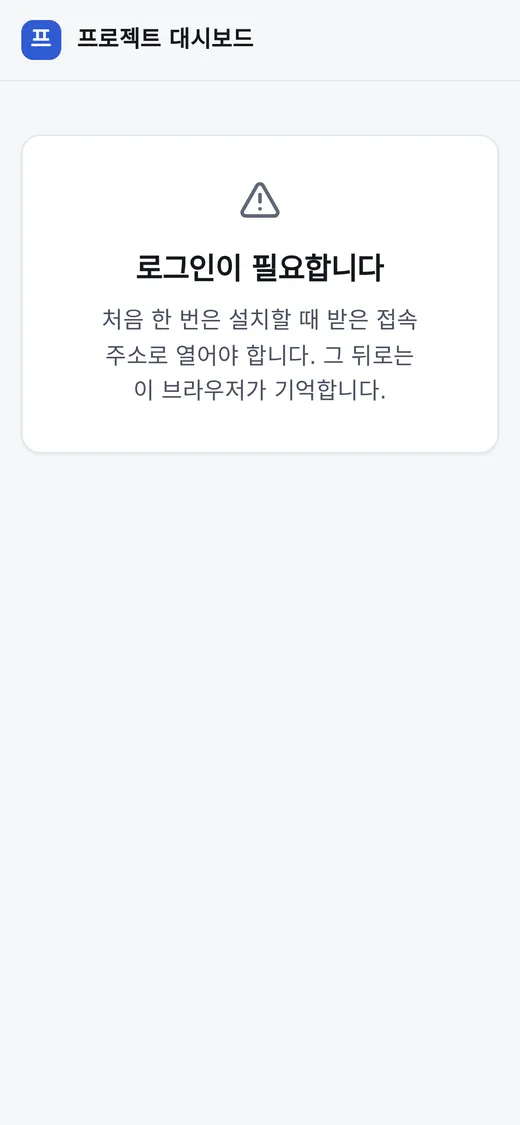
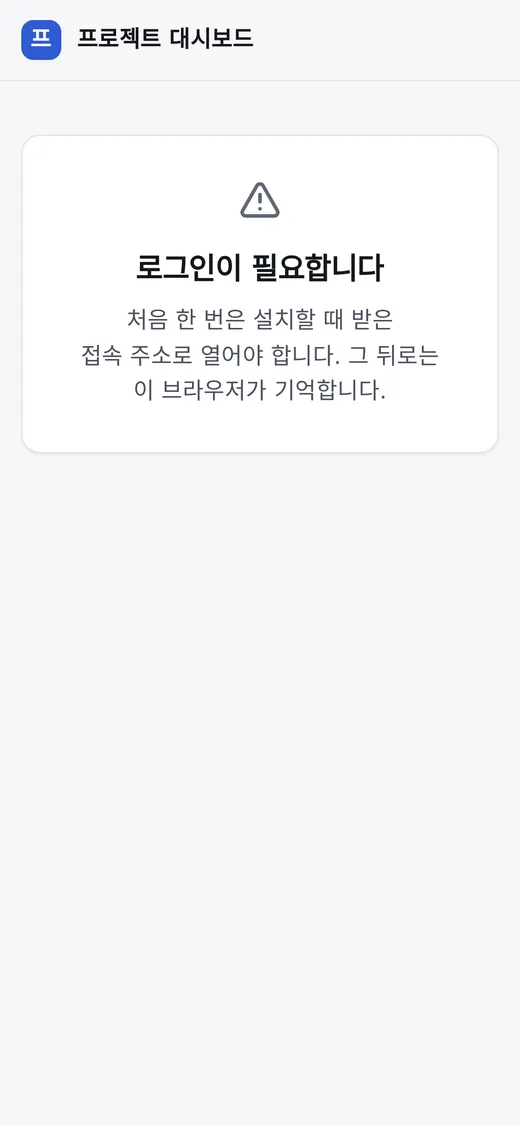
fix(project-board): visual QA round 4 - quoted button names keep their particle, approval source titles, the access address and the demo command wrap cleanly on phones

Changed region(s): [[0.1538, 0.2489, 0.8308, 0.3422]]

diff --git a/automation/project_board/dashboard.py b/automation/project_board/dashboard.py
@@ -208,7 +208,7 @@ _ARCHIVE_DIALOG: Final = (
     '<dialog id="archive-dialog" aria-labelledby="archive-title"><form method="dialog">'
     '<h2 id="archive-title" tabindex="-1" autofocus>이 프로젝트를 보관할까요?</h2>'
     '<p>「<b data-name></b>」 프로젝트는 요약, 할\u00a0일, 일정, 근거에서 빠지고 보관함에서만 보입니다. '
-    "할\u00a0일과 근거는 지워지지 않고 프로젝트 화면의 「보관 해제」로 언제든 되돌립니다.</p>"
+    "할\u00a0일과 근거는 지워지지 않고 프로젝트 화면의 <span class=\"q\">「보관 해제」로</span> 언제든 되돌립니다.</p>"
     '<p class="dialog-error" role="alert"></p>'
     '<div class="dialog-actions"><button class="btn" value="cancel">취소</button>'
     '<button class="btn primary" value="ok" data-confirm>보관하기</button></div></form></dialog>'
@@ -401,7 +401,7 @@ def _summary(snapshot: BoardSnapshot, today: date) -> str:
             link = f' · <a href="{escape(p.thread_url, quote=True)}">승인 스레드 열기</a>' if p.thread_url else ""
             items.append(
                 f"<li><b>{escape(p.project)}</b> {_grade_badge(p.grade)} · 할\u00a0일\u00a0{p.todo_count}건 · "
-                f"근거 「{escape(p.source_subject)}」{link}</li>"
+                f"근거 {_quoted(p.source_subject)}{link}</li>"
             )
         pending = (
             f'<div class="callout" id="pending">{icon("inbox")}<div><b>승인을 기다리는 제안 {len(items)}건</b>'
@@ -676,7 +676,7 @@ def _archived_line(view: ProjectView, mode: Mode) -> str:
 def _archive(shelf: tuple[ProjectView, ...], mode: Mode, today: date, fresh: dict[str, int] | None = None) -> str:
     """보관함: archived projects only. Their todos and evidence are kept and open from the card."""
     sub = ("보관한 프로젝트는 요약, 프로젝트, 할\u00a0일, 일정, 근거와 프로젝트 고르기에 나오지 않습니다. "
-           "할\u00a0일과 근거는 지워지지 않고, 프로젝트 화면의 「보관 해제」로 되돌립니다.")
+           "할\u00a0일과 근거는 지워지지 않고, 프로젝트 화면의 <span class=\"q\">「보관 해제」로</span> 되돌립니다.")
 
     def line(view: ProjectView) -> str:
         count = (fresh or {}).get(view.name, 0)
@@ -686,7 +686,7 @@ def _archive(shelf: tuple[ProjectView, ...], mode: Mode, today: date, fresh: dic
     cards = "".join(_project_card(view, today, line(view)) for view in shelf)
     body = f'<div class="grid">{cards}</div>' if cards else (
         f'<div class="card empty">{icon("archive")}<b>보관한 프로젝트가 없습니다</b>'
-        "<p>끝난 프로젝트는 프로젝트 화면의 「보관」으로 이곳에 옮길 수 있습니다.</p></div>"
+        "<p>끝난 프로젝트는 프로젝트 화면의 <span class=\"q\">「보관」으로</span> 이곳에 옮길 수 있습니다.</p></div>"
     )
     return f'<section id="archive" data-tab="archive">{_head("보관함", sub)}{body}</section>'
 

diff --git a/automation/project_board/server.py b/automation/project_board/server.py
@@ -139,7 +139,7 @@ class _Handler(BaseHTTPRequestHandler):
             self._send(303, b"", "text/plain", {"Location": parsed.path or "/", "Set-Cookie": cookie})
             return
         if not self._tokenless() and not self._cookie_ok():
-            self._page(401, "로그인이 필요합니다", "처음 한 번은 설치할 때 받은 접속 주소로 열어야\u00a0합니다. 그 뒤로는 이\u00a0브라우저가 기억합니다.", home=False)
+            self._page(401, "로그인이 필요합니다", "처음 한 번은 설치할 때 받은 접속\u00a0주소로 열어야\u00a0합니다. 그 뒤로는 이\u00a0브라우저가 기억합니다.", home=False)
             return
         parts = [unquote(part) for part in parsed.path.split("/") if part]
         if not parts:

diff --git a/automation/project_board/dashboard_theme.py b/automation/project_board/dashboard_theme.py
@@ -224,7 +224,7 @@ dialog p{margin:0 0 var(--s3);color:var(--text-2)}
 .notice p:last-child{margin-bottom:0}
 .reader h1{font-size:var(--t-xl);margin:0 0 var(--s4)}
 .cmd{margin:var(--s3) 0 0;padding:var(--s3) var(--s4);background:var(--surface-2);border:1px solid var(--line);border-radius:var(--r-md);overflow-x:auto}
-.cmd code{background:none;border:0;padding:0;white-space:pre}
+.cmd code{background:none;border:0;padding:0;white-space:pre-wrap}
 .q{white-space:nowrap}
 dialog h2:focus{outline:none}
 .reader{max-width:860px;margin:0 auto;padding:var(--s6) var(--s4) var(--s10)}
